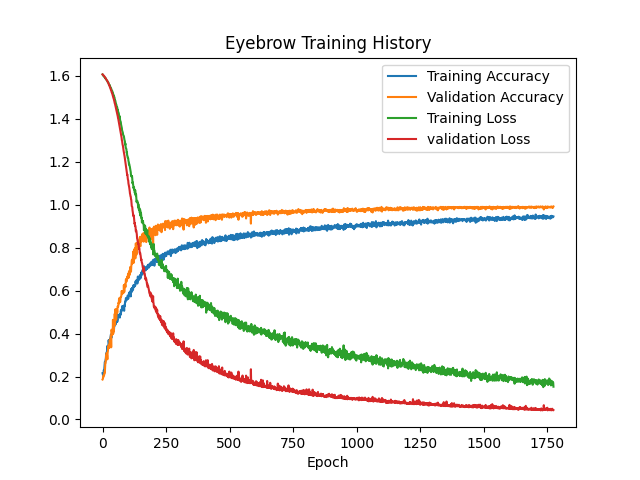
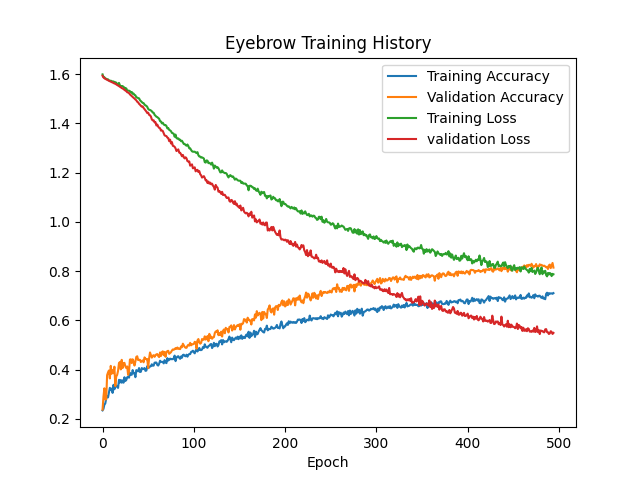
last commit before integrating dvc

diff --git a/faceTrain.py b/faceTrain.py
@@ -25,16 +25,16 @@ face_ds = keras.utils.image_dataset_from_directory(
     image_size=(50, 100),
     shuffle=True,
     seed=3,
-    validation_split=0.15,
+    validation_split=0.2,
     subset="both"
 )
 train_ds, validation_ds = face_ds
 
 data_augment = Sequential([
-    RandomRotation(factor=(0.03), fill_mode="nearest"),
+    RandomRotation(factor=(0.02), fill_mode="nearest"),
     RandomZoom(height_factor=(0.02),width_factor=(0.02), fill_mode="nearest"),
-    RandomContrast(factor=(0.1)),
-    RandomBrightness(factor=(0.1))
+    RandomContrast(factor=(0.2)),
+    RandomBrightness(factor=(0.5))
     #might add more, but not image fliping because it needs to know if right or left eyebrow raised
     ])
 
@@ -43,7 +43,7 @@ data_rescale=Sequential([Rescaling(1./255)])
 input_shape=(50, 100, 3) # IMG_SIZE x IMG_SIZE RGB
 
 model = Sequential() 
-#model.add(data_augment) # augmented only during model.fit
+model.add(data_augment) # augmented only during model.fit
 model.add(data_rescale) # rescale data in model
 model.add(Conv2D(16, kernel_size = (3, 3), input_shape=input_shape,activation='relu'))
 model.add(Conv2D(32, (3, 3), activation = 'relu')) 
@@ -65,7 +65,7 @@ model.compile(
 callback = keras.callbacks.EarlyStopping(
     monitor="val_loss",
     min_delta=0,
-    patience=5,
+    patience=15,
     verbose=0,
     mode="auto",
     baseline=None,
